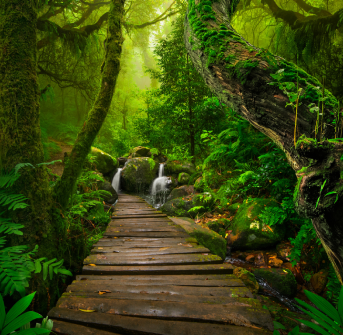
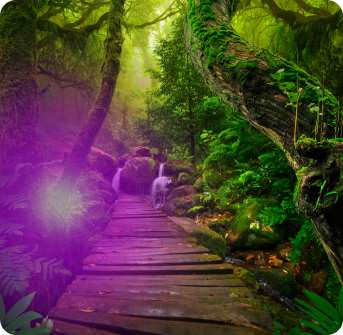
Add Home1 image and update Home screen UI

diff --git a/src/screens/home/index.tsx b/src/screens/home/index.tsx
@@ -5,7 +5,8 @@ import {
   StyleSheet,
   TouchableOpacity,
   View,
-  ActivityIndicator
+  ActivityIndicator,
+  FlatList
 } from "react-native"
 import { AppButton, AppHeader, AppText } from "../../components"
 import { resetState } from "../../redux/Login"
@@ -27,6 +28,7 @@ import Images from "../../assets/images"
 import useStyles from "./styles"
 import RightArrowIcon from "../../assets/svg/RightArrowIcon"
 import { handleError } from "../../util/helpers"
+import { HomeScreenData } from "../../util/HomeScreenUtils"
 
 const Home: ScreenStackComponent<RootStackParamList, "Home"> = ({ route }) => {
   const account_setup = useSelector(state => state.login?.data?.user?.user_profile?.account_setup)
@@ -122,31 +124,43 @@ const Home: ScreenStackComponent<RootStackParamList, "Home"> = ({ route }) => {
   const navigateToARChanllenge = () => {
     navigation.navigate('ARChallenge')
   }
+
+  const HomeScreenARItem = (item) => {
+    return (
+      <BackgroundWithImage 
+      imageSource={item?.image} 
+      style={styles.imageBg}
+      imageStyle={styles.imageStyle}
+    >
+      <View style={styles.firstView}/>
+      <View style={styles.row}>
+        <View style={styles.innerView}>
+          <AppText style={styles.headerText}>{item?.title}</AppText>
+          <AppText style={styles.headerText}>{item?.subtitle}</AppText>
+          <AppText style={styles.challengesText}>{numberOfChallenges} Challenges</AppText>
+        </View>
+        <TouchableOpacity onPress={navigateToARChanllenge}>
+          <RightArrowIcon/>
+        </TouchableOpacity>
+      </View>
+    </BackgroundWithImage>
+    )
+  }
+
   return (
-    <ScrollView style={styles.mainContainer}>
+    <View style={styles.mainContainer}>
       <AppHeader title={"Home"} leftComponent={handleMenuButton()}/>
       <View style={styles.container}>
         {isLoading ? <ActivityIndicator size="large" /> : 
-        <BackgroundWithImage 
-          imageSource={Images.Home} 
-          style={styles.imageBg}
-          imageStyle={styles.imageStyle}
-        >
-          <View style={styles.firstView}/>
-          <View style={styles.row}>
-            <View style={styles.innerView}>
-              <AppText style={styles.headerText}>Anywhere</AppText>
-              <AppText style={styles.headerText}>AR Challenges</AppText>
-              <AppText style={styles.challengesText}>{numberOfChallenges} Challenges</AppText>
-            </View>
-            <TouchableOpacity onPress={navigateToARChanllenge}>
-              <RightArrowIcon/>
-            </TouchableOpacity>
-          </View>
-        </BackgroundWithImage>
+        <FlatList
+          contentContainerStyle={styles.containerStyle}
+          data={HomeScreenData}
+          renderItem={({item}) => <HomeScreenARItem {...item}/>}
+          keyExtractor={(item) => item.id}
+        />
       }
       </View>
-    </ScrollView>
+    </View>
   )
 }
 

diff --git a/src/screens/home/styles.ts b/src/screens/home/styles.ts
@@ -15,7 +15,8 @@ const useStyles = makeStyles((theme) => ({
     imageBg : {
         width : '100%',
         height : 335,
-        borderRadius : 20
+        borderRadius : 20,
+        marginBottom :20
       },
       firstView : {
         flex:1
@@ -37,7 +38,7 @@ const useStyles = makeStyles((theme) => ({
        borderRadius: 20
     },
     innerView : {
-      width : '60%',
+      width : '70%'
     },
     challengesText : {
       ...fontGroup.ns800,
@@ -45,6 +46,9 @@ const useStyles = makeStyles((theme) => ({
       lineHeight: FontLineHeights.LH15,
       marginTop: 10,
       marginStart: 3
+    },
+    containerStyle: {
+      paddingBottom : 100
     }
     })
 )

diff --git a/src/util/HomeScreenUtils.ts b/src/util/HomeScreenUtils.ts
@@ -1,0 +1,17 @@
+import Images from "../assets/images";
+
+export const HomeScreenData = [
+    {
+      id :1,
+      title: "Anywhere",
+      subtitle: "AR Challenges",
+      image : Images.Home
+    },
+    {
+      id : 2,
+      title : "Outdoor GEO-AR",
+      subtitle : "Adventures",
+      image : Images.Home1
+    },
+  ]
+  

diff --git a/src/assets/images/index.ts b/src/assets/images/index.ts
@@ -18,6 +18,7 @@ const Images = {
     Device3 : require('./Device3.png'),
     Splash : require('./Splash.gif'),
     Home : require('./Home.png'),
+    Home1 : require('./Home1.png'),
 }
 
 export default Images;
